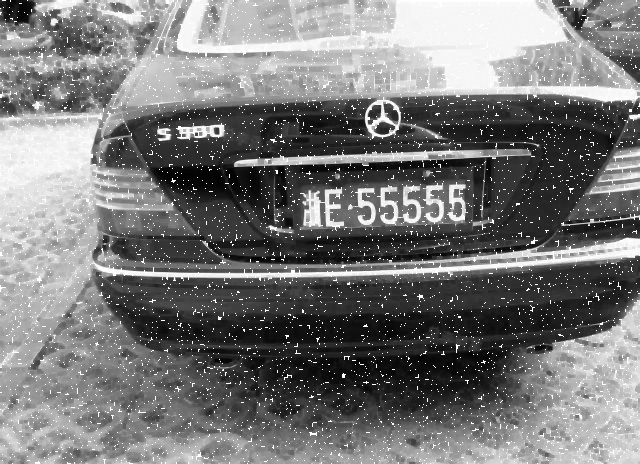
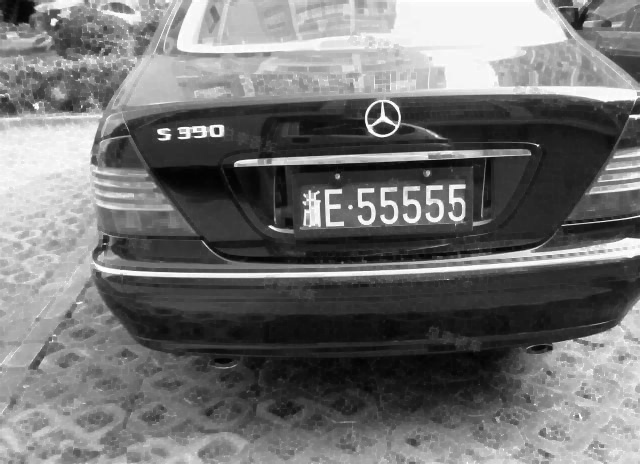
shpe deal 02

diff --git a/CV_shapeDeal.py b/CV_shapeDeal.py
@@ -39,7 +39,8 @@ m = img01.shape[0]
 n = img01.shape[1]
 print(img01.shape)
 
-#revert gred 
+#revert gray 
+#cv2 has it's owne func :bitwise_not 
 '''
 for i in range(m):
     for j in range(n):
@@ -48,32 +49,53 @@ for i in range(m):
 
 cv2.imwrite("imgrevert.jpg",img01)
 '''
+'''
 #add noise 
+
 for i in range(8000):
     x=np.random.randint(0,m)
     y=np.random.randint(0,n)
     img01[x][y]=255 ###255 means bright best
-    
-cv2.imwrite("imgaddnoise.jpg",img01)
+'''
 
-#fushi
+cv2.imwrite("imgaddnoise.jpg",img01)
+# fushi & pengzhang all for white color (gred ==255)
+
+#fushi decress noise 
 erodepic = cv2.erode(img01,kernel)
-cv2.imwrite("erodepic.jpg",erodepic)
-#pengzhang 
-dilatepic = cv2.dilate(erodepic,kernel)
+cv2.imwrite("erodepic.jpg",img01)
+
+#pengzhang incress noise 
+dilatepic = cv2.dilate(img01,kernel)
 cv2.imwrite("dilatepic.jpg",dilatepic)
 
-#close 
+
+#close  pengzhang + fushi  incress white noise
 closepic = cv2.morphologyEx(img01,cv2.MORPH_CLOSE,kernel)
 
 
-#open
+#open= fushi+pengzhang  decress white noise 
+
 openpic = cv2.morphologyEx(img01,cv2.MORPH_OPEN,kernel)
 
 cv2.imwrite("closepic.jpg",closepic)
 cv2.imwrite("openpic.jpg",openpic)
 
 
+#find edge
+#将两幅图像相减获得边，第一个参数是膨胀后的图像，第二个参数是腐蚀后的图像
+edge = cv2.absdiff(dilatepic,erodepic)
 
+cv2.imwrite("edge.jpg",edge)
+#binary pic
+#上面得到的结果是灰度图，将其二值化以便更清楚的观察结果
+retval, edge = cv2.threshold(edge, 40, 255, cv2.THRESH_BINARY)
+
+cv2.imwrite("edge01.jpg",edge)
+
+#反色，即对二值图每个像素取反
+edge02 = cv2.bitwise_not(edge)
+
+cv2.imwrite("edge02.jpg",edge02)
 
 
